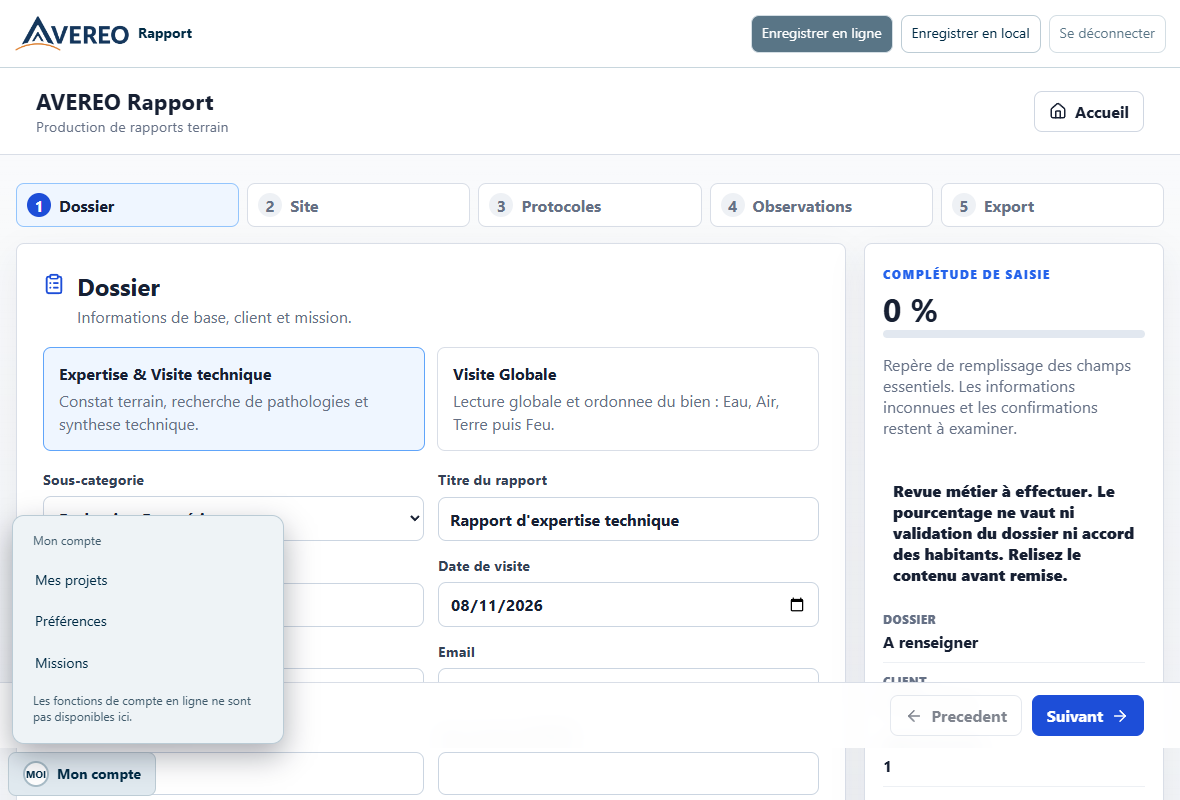
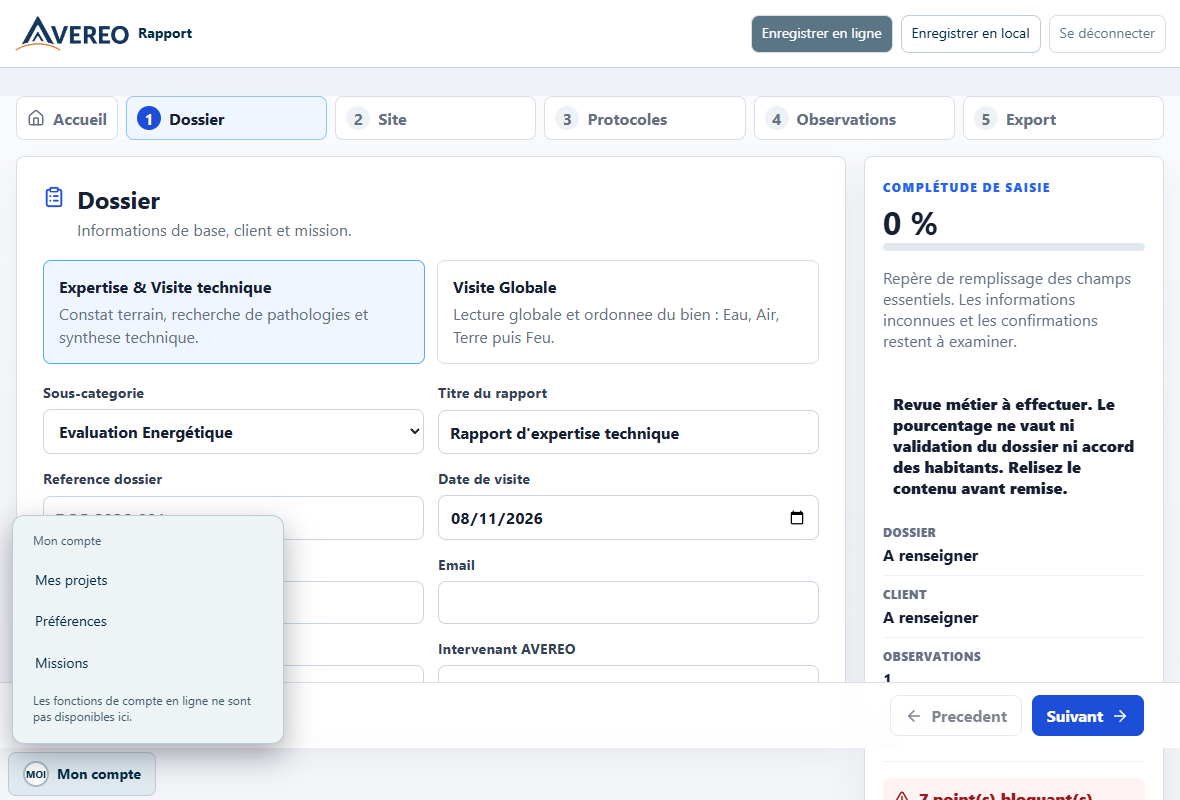
fix(rapport): afficher un seul bandeau et déplacer Accueil

diff --git a/architecture-v1/avereo-app-rapport/frontend/src/App.jsx b/architecture-v1/avereo-app-rapport/frontend/src/App.jsx
@@ -505,29 +505,13 @@ function SignaturePad({ value, onChange }) {
 
 const rapportPreferences = [{"key": "audience", "label": "Format proposé pour un nouveau rapport", "type": "select", "default": "expert", "options": [{"value": "expert", "label": "Rapport expert"}, {"value": "client", "label": "Synthèse client"}]}];
 
-function Header({ onHome, onLogout, onLocalCopy }) {
+function ReportAccountMenu({ onHome, onLogout, onLocalCopy }) {
   return (
-    <header className="app-header">
-      <div className="brand-block">
-        <div>
-          <h1>AVEREO Rapport</h1>
-          <p>Production de rapports terrain</p>
-        </div>
-      </div>
-      <nav className="header-actions" aria-label="Navigation du compte">
-      {onHome && (
-        <button className="button ghost" type="button" onClick={onHome}>
-          <Home size={18} />
-          Accueil
-        </button>
-      )}
-      <avereo-account-menu preferences-app="rapport" preferences-label="Rapport" preferences-fields={JSON.stringify(rapportPreferences)}>
-        <button slot="items" type="button" onClick={onHome || (() => document.querySelector('main')?.scrollIntoView())}>Mes projets</button>
-        {onLocalCopy && <button slot="local-copy" data-avereo-save="local" data-avereo-proxy="" onClick={onLocalCopy}>Exporter le rapport JSON</button>}
-        {ONLINE_SYNC_ENABLED ? <a slot="logout" href="/connect/logout.php" onClick={onLogout}>Se déconnecter</a> : <span slot="logout" hidden></span>}
-      </avereo-account-menu>
-      </nav>
-    </header>
+    <avereo-account-menu preferences-app="rapport" preferences-label="Rapport" preferences-fields={JSON.stringify(rapportPreferences)}>
+      <button slot="items" type="button" onClick={onHome || (() => document.querySelector('main')?.scrollIntoView())}>Mes projets</button>
+      {onLocalCopy && <button slot="local-copy" data-avereo-save="local" data-avereo-proxy="" onClick={onLocalCopy}>Exporter le rapport JSON</button>}
+      {ONLINE_SYNC_ENABLED ? <a slot="logout" href="/connect/logout.php" onClick={onLogout}>Se déconnecter</a> : <span slot="logout" hidden></span>}
+    </avereo-account-menu>
   );
 }
 
@@ -575,9 +559,10 @@ function TextAreaWithMic({
   );
 }
 
-function StepNav({ steps, currentStep, setStep }) {
+function StepNav({ steps, currentStep, setStep, onHome }) {
   return (
-    <nav className="step-nav" aria-label="Progression du rapport">
+    <nav className="step-nav" aria-label="Navigation du rapport">
+      <button type="button" onClick={onHome}><Home size={18} aria-hidden="true" /> Accueil</button>
       {steps.map((step, index) => (
         <button
           key={step}
@@ -668,11 +653,11 @@ function HomePage({ draft, onNew, onResume, onlineSyncEnabled, accessToken, onOp
   const hasDraft = Boolean(draft);
   return (
     <div className="screen">
-      <Header />
+      <ReportAccountMenu />
       <main className="home-grid">
         <section className="panel home-panel">
           <span className="eyebrow">Rapport AVEREO Pro</span>
-          <h2>Creer ou reprendre un rapport</h2>
+          <h1>Créer ou reprendre un rapport</h1>
           <p>
             Un seul parcours conserve les fonctions existantes. Le type de dossier, dont Visite Globale,
             se choisit dans l'etape Dossier et pourra adapter le workflow a la mission.
@@ -792,7 +777,7 @@ function DossierStep({ report, setReport }) {
       <div className="section-title">
         <ClipboardList size={22} />
         <div>
-          <h2>Dossier</h2>
+          <h1>Dossier</h1>
           <p>Informations de base, client et mission.</p>
         </div>
       </div>
@@ -1155,7 +1140,7 @@ function SiteStep({ report, setReport, onCorrectAddress }) {
       <div className="section-title">
         <CloudSun size={22} />
         <div>
-          <h2>Site et contexte</h2>
+          <h1>Site et contexte</h1>
           <p>Environnement analyse, meteo, cadastre et urbanisme.</p>
         </div>
       </div>
@@ -1304,7 +1289,7 @@ function ProtocolStep({ report, setReport }) {
       <div className="section-title">
         <ShieldCheck size={22} />
         <div>
-          <h2>Protocoles</h2>
+          <h1>Protocoles</h1>
           <p>
             {habitologie
               ? "Retenir les phases utiles à la visite, puis les suivre dans l'ordre Eau, Air, Terre, Feu."
@@ -1638,7 +1623,7 @@ function ObservationStep({ report, setReport }) {
       <div className="section-title">
         <Camera size={22} />
         <div>
-          <h2>Observations</h2>
+          <h1>Observations</h1>
           <p>Constats localises, niveau de gravite, photos et suites proposees.</p>
         </div>
       </div>
@@ -1720,7 +1705,7 @@ function ValidationStep({ report, setReport, validation, onPreview, onExport, on
       <div className="section-title">
         <FileText size={22} />
         <div>
-          <h2>Validation et export</h2>
+          <h1>Validation et export</h1>
           <p>Verifier les points bloquants, signer et generer le document Word.</p>
         </div>
       </div>
@@ -2072,21 +2057,23 @@ function ReportWizard({
     event.target.value = '';
   };
 
+  const returnToHome = async () => {
+    try { await saveDraft(report); await onHome(); }
+    catch { notify('Brouillon non enregistré. Exportez une copie JSON avant de quitter.'); }
+  };
+
   const goNext = () => setCurrentStep((step) => Math.min(step + 1, steps.length - 1));
   const goPrev = () => setCurrentStep((step) => Math.max(step - 1, 0));
 
   return (
     <div className="screen">
-      <Header onLocalCopy={handleExportJson} onHome={async () => {
-        try { await saveDraft(report); await onHome(); }
-        catch { notify('Brouillon non enregistré. Exportez une copie JSON avant de quitter.'); }
-      }} onLogout={async (event) => {
+      <ReportAccountMenu onLocalCopy={handleExportJson} onHome={returnToHome} onLogout={async (event) => {
         event.preventDefault();
         try { await saveDraft(report); window.location.assign('/connect/logout.php'); }
         catch { notify('Brouillon non enregistré. Exportez une copie JSON avant de vous déconnecter.'); }
       }} />
       <main className="wizard-layout">
-        <StepNav steps={steps} currentStep={currentStep} setStep={setCurrentStep} />
+        <StepNav steps={steps} currentStep={currentStep} setStep={setCurrentStep} onHome={returnToHome} />
         <div className="wizard-grid">
           <div className="wizard-main">
             {currentStep === 0 && <DossierStep report={report} setReport={setReport} />}
@@ -2157,11 +2144,11 @@ function AccessGate({ authConfig, authError, onOAuthLogin }) {
 
   return (
     <div className="screen">
-      <Header />
+      <ReportAccountMenu />
       <main className="auth-gate">
         <section className="panel auth-panel">
           <span className="eyebrow">Acces securise</span>
-          <h2>Connexion a AVEREO Rapport</h2>
+          <h1>Connexion à AVEREO Rapport</h1>
           {connectMode ? (
             <p>Votre session applicative doit etre renouvelee depuis AVEREO CONNECT.</p>
           ) : (

diff --git a/architecture-v1/avereo-app-rapport/frontend/src/styles.css b/architecture-v1/avereo-app-rapport/frontend/src/styles.css
@@ -51,45 +51,6 @@ img {
     #eef1f5;
 }
 
-.app-header {
-  display: flex;
-  align-items: center;
-  justify-content: space-between;
-  gap: 16px;
-  padding: 18px clamp(16px, 4vw, 36px);
-  border-bottom: 1px solid #d9dee7;
-  background: rgba(255, 255, 255, 0.92);
-  position: sticky;
-  top: var(--av-header-used, 0px);
-  z-index: 20;
-  backdrop-filter: blur(10px);
-}
-
-.brand-block {
-  display: flex;
-  align-items: center;
-  gap: 12px;
-  min-width: 0;
-}
-
-.header-actions { display: flex; flex-wrap: wrap; align-items: center; justify-content: flex-end; gap: 8px; }
-.header-actions a { text-decoration: none; }
-
-.brand-block h1,
-.brand-block p {
-  margin: 0;
-}
-
-.brand-block h1 {
-  font-size: clamp(1.1rem, 2vw, 1.4rem);
-  letter-spacing: 0;
-}
-
-.brand-block p {
-  color: #657085;
-  font-size: 0.9rem;
-}
-
 .home-grid,
 .wizard-layout {
   width: min(1180px, calc(100% - 32px));
@@ -108,7 +69,7 @@ img {
   margin: clamp(42px, 9vh, 96px) auto 0;
 }
 
-.auth-panel h2 {
+.auth-panel h1 {
   margin: 10px 0 12px;
   font-size: clamp(1.75rem, 4vw, 2.7rem);
   line-height: 1.08;
@@ -152,7 +113,7 @@ img {
   min-height: 320px;
 }
 
-.home-panel h2 {
+.home-panel h1 {
   max-width: 680px;
   margin: 8px 0 10px;
   font-size: clamp(1.75rem, 3.6vw, 3rem);
@@ -315,7 +276,7 @@ img {
 
 .step-nav {
   display: grid;
-  grid-template-columns: repeat(5, minmax(0, 1fr));
+  grid-template-columns: auto repeat(5, minmax(0, 1fr));
   gap: 8px;
   margin-bottom: 16px;
 }
@@ -440,7 +401,9 @@ img {
   margin-top: 3px;
 }
 
-.section-title h2,
+.section-title h1 { font-size: 1.5rem; }
+
+.section-title h1,
 .section-title p {
   margin: 0;
 }
@@ -1625,7 +1588,7 @@ img {
   }
 
   .step-nav {
-    grid-template-columns: repeat(5, minmax(150px, 1fr));
+    grid-template-columns: auto repeat(5, minmax(150px, 1fr));
     overflow-x: auto;
     padding-bottom: 4px;
   }
@@ -1634,11 +1597,6 @@ img {
 @media (max-width: 680px) {
   .screen {
     padding-bottom: 146px;
-  }
-
-  .app-header {
-    align-items: flex-start;
-    flex-wrap: wrap;
   }
 
   .home-grid,

diff --git a/architecture-v1/avereo-app-rapport/docs/migration-matrix.md b/architecture-v1/avereo-app-rapport/docs/migration-matrix.md
@@ -173,3 +173,5 @@ Les champs client, adresse du logement, référence et date restent ceux du doss
 ## 2026-11-08 — Présentation commune
 
 Les actions communes réutilisent les handlers du rapport. Le point RGA reste distinct du dossier Rapport. [Matrice des actions](../../avereo-platform/docs/modele-affichage.md).
+
+Dans l’éditeur, **Accueil** et **Mon compte → Mes projets** utilisent le même retour avec sauvegarde préalable du brouillon.

diff --git a/architecture-v1/avereo-app-rapport/changelog.md b/architecture-v1/avereo-app-rapport/changelog.md
@@ -5,12 +5,16 @@ title: Evolutions significatives de Rapport AVEREO
 status: active
 version: git
 created: 2026-09-10
-updated: 2026-11-07
+updated: 2026-11-08
 owner: jpdandin
 tags:
   - rapport
   - changelog
 ---
+
+## 2026-11-08 — Navigation de Rapport
+
+Le bandeau commun identifie l’application. Le bouton Accueil rejoint la navigation des étapes et sauvegarde le brouillon avant le retour.
 
 ## 2026-11-06 — PR #122 en préproduction
 

diff --git a/architecture-v1/avereo-app-rapport/docs/source-audit.md b/architecture-v1/avereo-app-rapport/docs/source-audit.md
@@ -326,3 +326,5 @@ La fiche ouverte fournit client, site, référence et date. Le reporter met à j
 ## 2026-11-08 — Modèle commun
 
 L’éditeur raccorde sa copie JSON et sa sauvegarde en ligne. RGA garde sa sortie propre et son dialogue de sauvegarde du point. [Modèle partagé](../../avereo-platform/docs/modele-affichage.md).
+
+Rapport affiche directement l’accueil ou le contenu de l’étape sous le bandeau commun.
